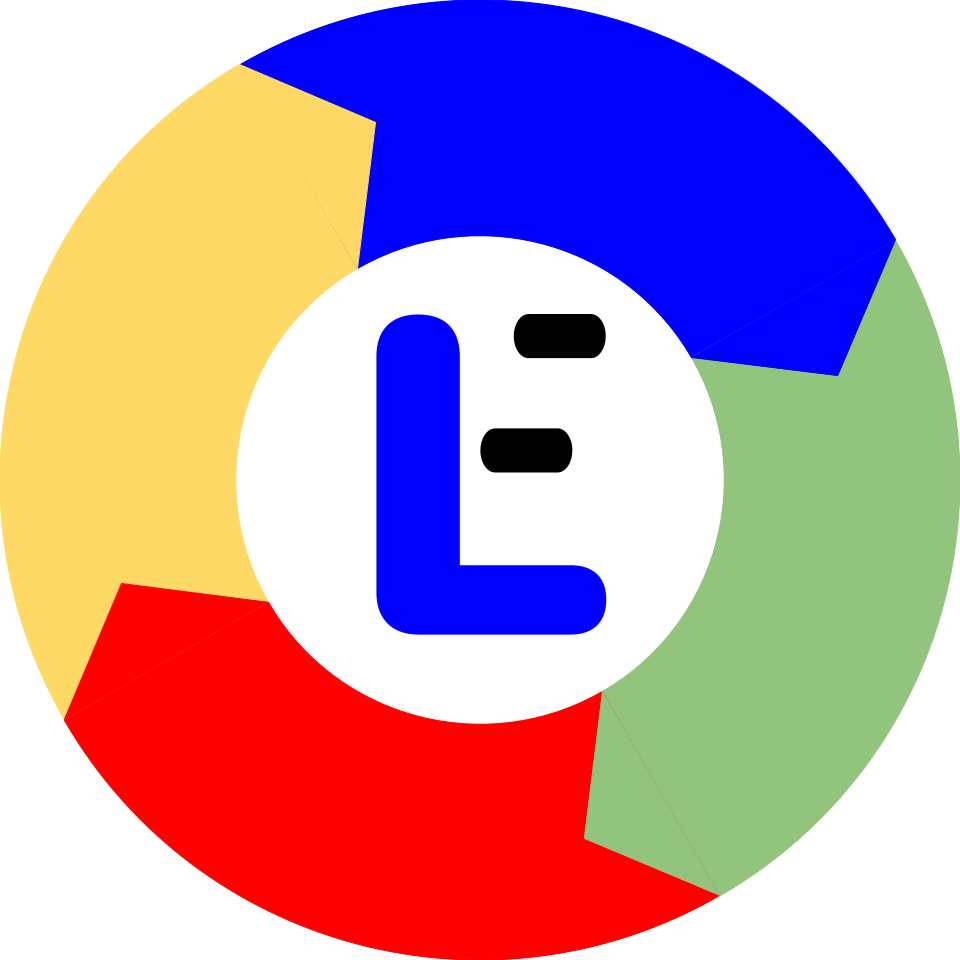
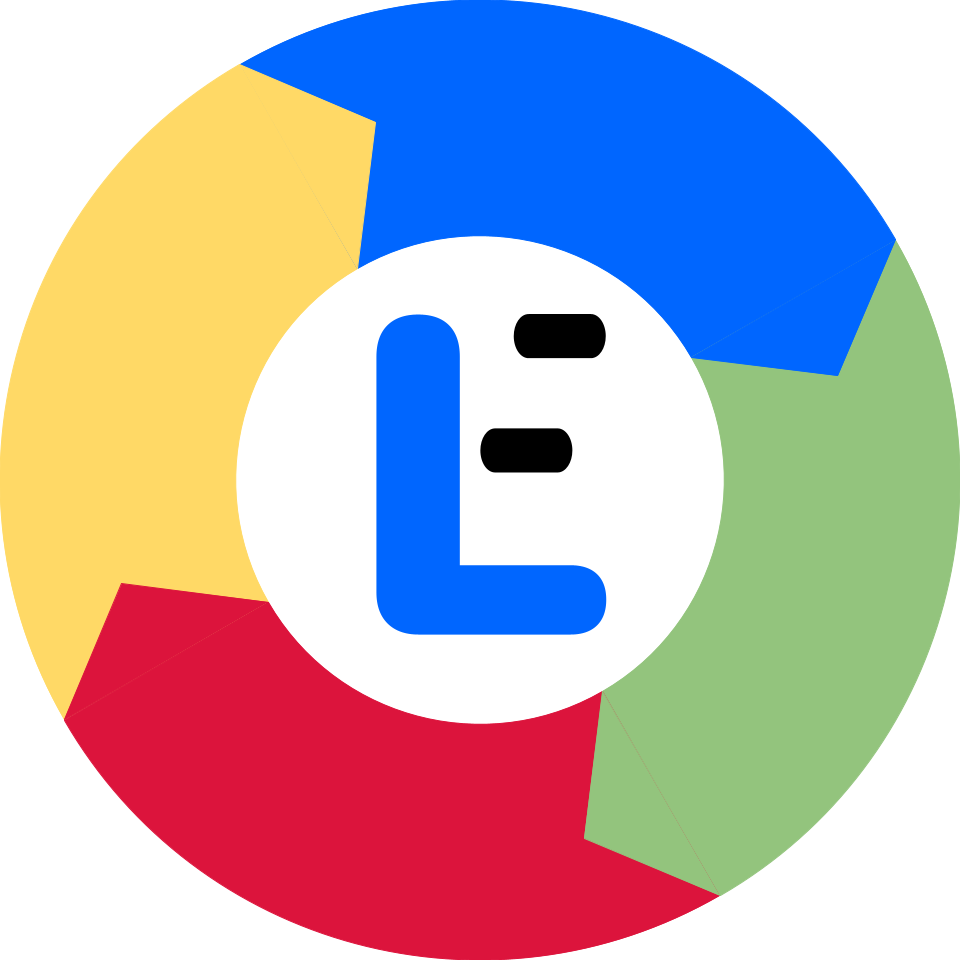
new colors

diff --git a/src/app/theme.js b/src/app/theme.js
@@ -8,13 +8,13 @@ const theme = createTheme({
     },
     palette: {
         primary: {
-            main: '#0000ffff',
+            main: '#0066ff',
             // light: will be calculated from palette.primary.main,
             // dark: will be calculated from palette.primary.main,
             // contrastText: will be calculated to contrast with palette.primary.main
         },
         secondary: {
-            main: '#b715e1',
+            main: '#ff9900',
             // light: will be calculated from palette.primary.main,
             // dark: will be calculated from palette.primary.main,
             // contrastText: will be calculated to contrast with palette.primary.main
